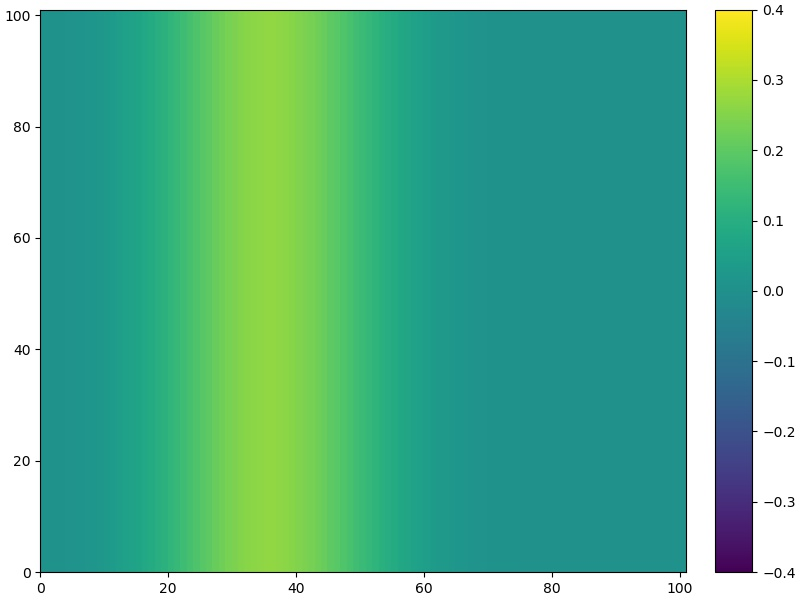
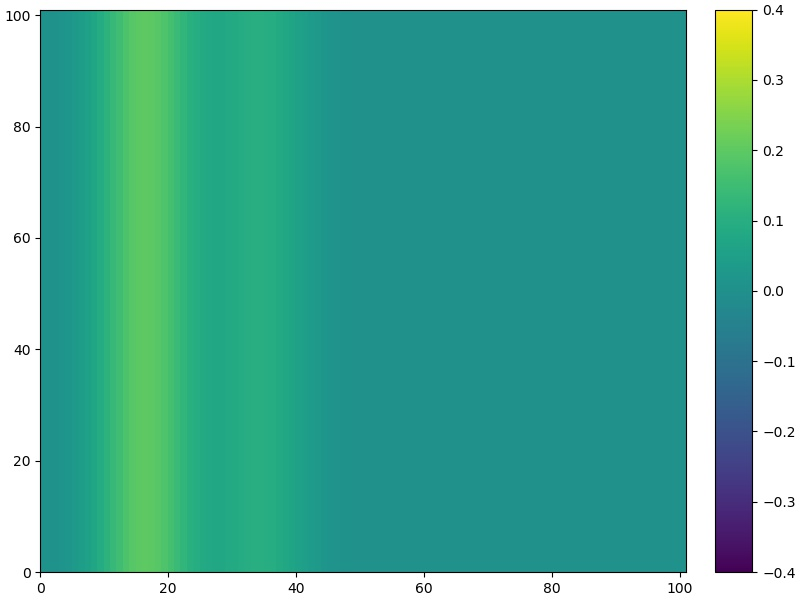
Changed WaveChase

diff --git a/custom_apps/test_suit/test_suit.py b/custom_apps/test_suit/test_suit.py
@@ -981,7 +981,7 @@ data = []
 for y in range(0, RESOLUTION[0] + 1):
     next = []
     for x in range(0, RESOLUTION[0] + 1):
-        u = 0.2 * EXP0 ** -((2*(0.03125*x-1))**2) + 0.1 * EXP0 ** -((2*(0.03125*(x-12)-1))**2)
+        u = 0.2 * EXP0 ** -((2*(0.0625*x-1))**2) + 0.1 * EXP0 ** -((2*(0.0625*(x-18)-1))**2)
         next.append([0.0, u])
     data.append(next)
 velocity_array = np.array([data], dtype="float32")
